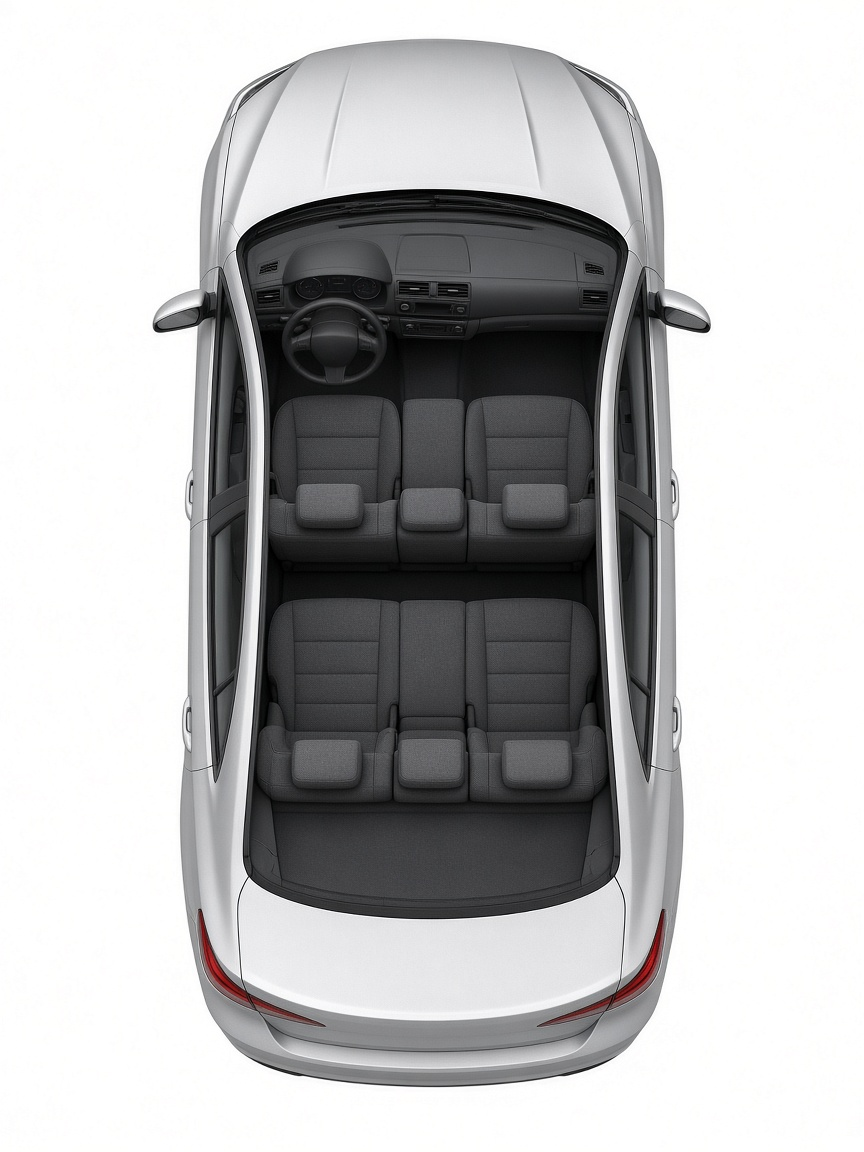
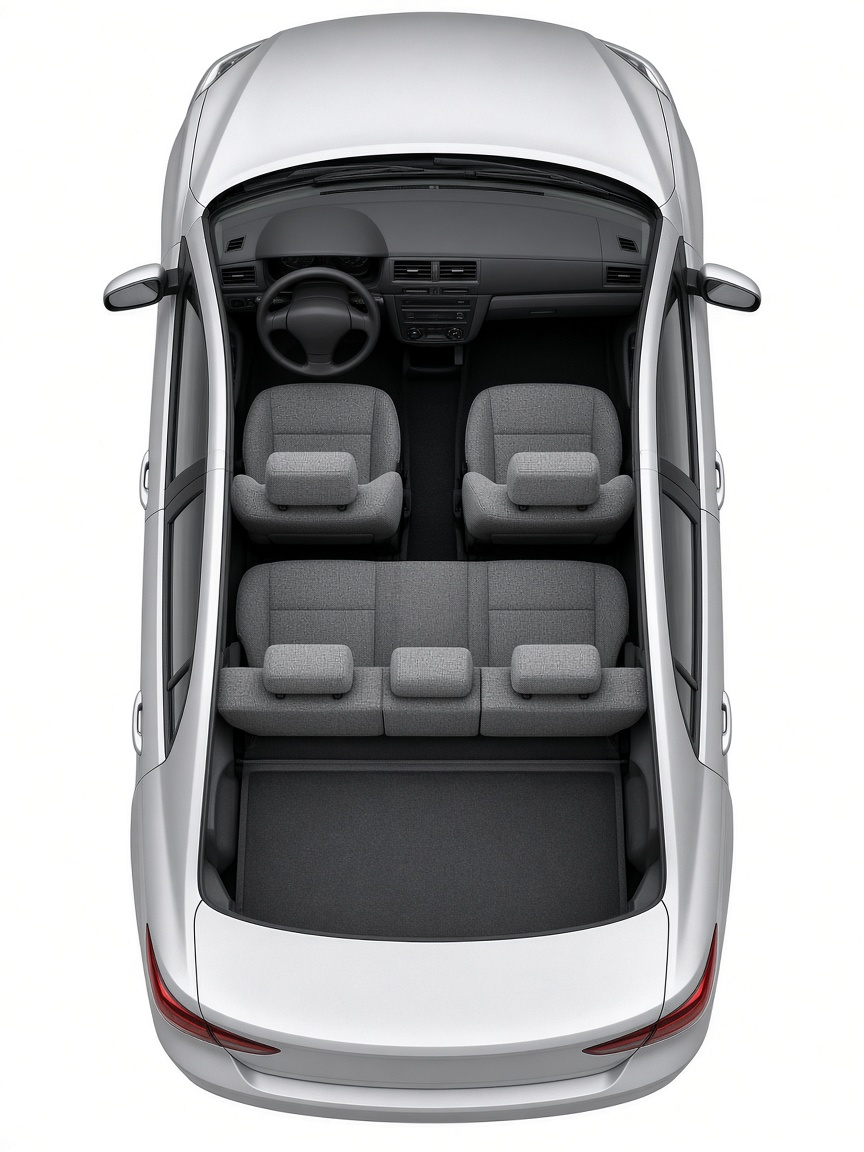
Replace the reversed cabin shell and sit markers on its seats.
The sedan is nose-up and left-hand drive: two front buckets and one rear bench. Driver plus two front passengers and four in the back stay driver-built. Hotspots use the measured cushion centers, with 1x/2x/3x JPEGs.

diff --git a/shared/flutter/along_design/lib/src/components/seat_map.dart b/shared/flutter/along_design/lib/src/components/seat_map.dart
@@ -190,9 +190,11 @@ class _SchematicBody extends StatelessWidget {
   }
 }
 
-/// Photograph is 864×1152. The shell shows the cabin only (the white margin
-/// is cropped) so the three front cushions and the rear bench fill the card.
-/// Markers are ours; the row list decides how many.
+/// Photograph is 864×1152, nose up. The steering wheel is on the left.
+/// The shell crops to the cabin. Front row of the photo is two buckets
+/// (centers 0.37 and 0.62); the rear is one bench. Marker count still
+/// comes from the row list, so a three-across front row puts the middle
+/// marker on the console between those buckets.
 class _CabinShell extends StatelessWidget {
   const _CabinShell({
     required this.rows,
@@ -205,10 +207,11 @@ class _CabinShell extends StatelessWidget {
   final ValueChanged<String>? onSeatLongPress;
 
   /// Interior window, as fractions of the 864×1152 photograph.
+  /// Top includes the wheel; bottom includes the rear cushion.
   static const _cropL = 0.18;
   static const _cropT = 0.14;
   static const _cropR = 0.82;
-  static const _cropB = 0.80;
+  static const _cropB = 0.72;
   static const _cropAspect =
       ((_cropR - _cropL) * 864) / ((_cropB - _cropT) * 1152);
 
@@ -241,25 +244,23 @@ class _CabinShell extends StatelessWidget {
     for (var r = 0; r < rows.length; r++) {
       final seats = _driverFirst(rows[r].seats);
       final count = seats.length;
-      final seatH = 48.0;
-      // Markers stay in the 44–48dp band so the label and price stay readable
-      // without covering the next cushion.
-      final span = math.min(width * 0.90, width - 8);
-      var seatW = span / count;
-      if (seatW > 48) seatW = 48;
-      if (seatW < 44 && 44 * count <= span) seatW = 44;
-      if (seatW < 48 && 48 * count <= span) seatW = 48;
-      final gap = count <= 1
-          ? 0.0
-          : math.max(0.0, (span - seatW * count) / (count - 1));
-      final rowWidth = seatW * count + gap * (count - 1);
-      final left0 = (width - rowWidth) / 2;
-      final top = _bandTop(r, rows.length, height, seatH);
+      const seatH = 48.0;
+      // 48dp keeps the hit target at AlongSpace.sizeTouchMin. The painted
+      // cushion is inset inside that box.
+      const seatW = 48.0;
+      final xs = _photoXs(r, rows.length, count);
+      final photoY = _photoY(r, rows.length);
+      final top = (_mapY(photoY, height) - seatH / 2)
+          .clamp(0.0, math.max(0.0, height - seatH))
+          .toDouble();
       for (var s = 0; s < count; s++) {
         final seat = seats[s];
+        final left = (_mapX(xs[s], width) - seatW / 2)
+            .clamp(0.0, math.max(0.0, width - seatW))
+            .toDouble();
         markers.add(
           Positioned(
-            left: left0 + s * (seatW + gap),
+            left: left,
             top: top,
             width: seatW,
             height: seatH,
@@ -293,19 +294,33 @@ class _CabinShell extends StatelessWidget {
     ];
   }
 
-  static double _bandTop(int index, int count, double height, double seatH) {
-    // Fractions are of the full photograph, then mapped into the crop.
-    double photo;
-    if (count <= 1) {
-      photo = 0.46;
-    } else if (count == 2) {
-      photo = index == 0 ? 0.33 : 0.55;
-    } else {
-      photo = 0.30 + 0.40 * (index / (count - 1));
-    }
-    final frac = (photo - _cropT) / (_cropB - _cropT);
-    return (frac * height - seatH / 2).clamp(4.0, height - seatH - 4);
+  /// Cushion centers in full-photo fractions, left to right.
+  /// Driver is sorted first, so the left front center is the wheel side.
+  static List<double> _photoXs(int index, int rowCount, int count) {
+    final front = rowCount <= 1 || index == 0;
+    if (front && count == 2) return const [0.37, 0.62];
+    if (front && count == 3) return const [0.37, 0.50, 0.62];
+    if (!front && count == 4) return const [0.33, 0.44, 0.54, 0.65];
+    final start = front ? 0.32 : 0.30;
+    final end = front ? 0.68 : 0.70;
+    if (count <= 1) return [(start + end) / 2];
+    return [
+      for (var i = 0; i < count; i++) start + (end - start) * i / (count - 1),
+    ];
   }
+
+  static double _photoY(int index, int rowCount) {
+    if (rowCount <= 1) return 0.385;
+    if (rowCount == 2) return index == 0 ? 0.385 : 0.548;
+    final t = index / (rowCount - 1);
+    return 0.385 + (0.548 - 0.385) * t;
+  }
+
+  static double _mapX(double photo, double width) =>
+      (photo - _cropL) / (_cropR - _cropL) * width;
+
+  static double _mapY(double photo, double height) =>
+      (photo - _cropT) / (_cropB - _cropT) * height;
 
   static Widget _cabinPhoto() {
     const photoW = 864.0;
